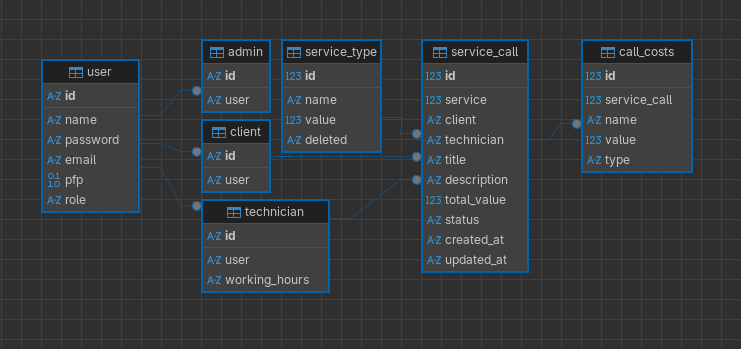
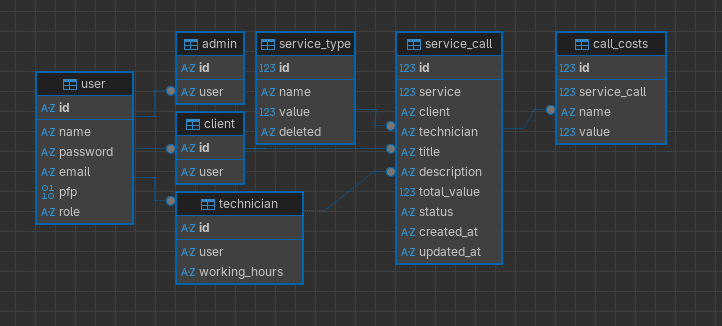
Added untested prototype of the call service

Changed region(s): [[0.0305, 0.092, 0.9446, 0.8896], [0.0305, 0.6442, 0.1828, 0.7055], [0.4875, 0.5521, 0.518, 0.5828]]

diff --git a/helpdesk-backend/src/modules/service_call/service_call.service.ts b/helpdesk-backend/src/modules/service_call/service_call.service.ts
@@ -1,4 +1,135 @@
-import { Injectable } from '@nestjs/common';
+import {
+  BadRequestException,
+  Injectable,
+  InternalServerErrorException,
+  NotFoundException,
+} from '@nestjs/common';
+import { ServiceCallDAO } from 'src/database/dao/service_call.dao';
+import { ServiceCallDto } from './dto/CallDto';
+import { ServiceTypeDAO } from 'src/database/dao/service_type.dao';
+import { CallCostsDAO } from 'src/database/dao/call_costs.dao';
+import { ServiceCall } from 'src/database/dao/interface';
+import { UpdateCallDto } from './dto/CallUpdateDto';
+import { CallCostDto } from './dto/CallCostDto';
 
 @Injectable()
-export class ServiceCallService {}
+export class ServiceCallService {
+  constructor(
+    private readonly serviceCallDAO: ServiceCallDAO,
+    private readonly serviceTypeDAO: ServiceTypeDAO,
+    private readonly callCostsDAO: CallCostsDAO,
+  ) {}
+
+  private async checkIfServiceCallExists(id: number): Promise<boolean> {
+    const result = await this.serviceCallDAO.getServiceCall(id);
+    if (result.length == 1) {
+      return true;
+    }
+    return false;
+  }
+
+  private async updateCallTotalValue(
+    id: number,
+    value: number,
+  ): Promise<boolean> {
+    const call = await this.serviceCallDAO.getServiceCall(id);
+    if (call.length != 1) {
+      throw new NotFoundException(`No call found with id: ${id}`);
+    }
+    call[0].total_value = call[0].total_value + value;
+    await this.serviceCallDAO.updateServiceCall(call[0]);
+    return true;
+  }
+
+  public async addServiceCall(data: ServiceCallDto): Promise<boolean> {
+    const callServiceType = await this.serviceTypeDAO.getServiceType(
+      data.service,
+    );
+    if (callServiceType.length != 1 || !data.client) {
+      throw new InternalServerErrorException(`Calls service got invalid data.`);
+    }
+    const call: ServiceCall = {
+      service: data.service,
+      total_value: callServiceType[0].value,
+      client: data.client,
+      technician: data.technician,
+      title: data.title,
+      description: data.description,
+    };
+    await this.serviceCallDAO.addServiceCall(call);
+    return true;
+  }
+
+  public async getAllServiceCalls(): Promise<ServiceCall[]> {
+    return await this.serviceCallDAO.getAllServiceCalls();
+  }
+
+  public async getServiceCallsByRoleId(id: string): Promise<ServiceCall[]> {
+    return await this.serviceCallDAO.getServiceCallsByRoleId(id);
+  }
+
+  public async getServiceCall(id: number): Promise<ServiceCall> {
+    const result = await this.serviceCallDAO.getServiceCall(id);
+    if (result.length != 1) {
+      throw new InternalServerErrorException(`Calls service got invalid data.`);
+    }
+    // Populates ServiceCall.additional_costs using the call id.
+    result[0].additional_costs =
+      await this.callCostsDAO.getCallCostsByCallId(id);
+    // Replaces the service type id with the actual object inside the call.
+    const service = await this.serviceTypeDAO.getServiceType(result[0].service);
+    result[0].service = service[0];
+    return result[0];
+  }
+
+  public async updateServiceCall(data: UpdateCallDto): Promise<boolean> {
+    if (!data.id) {
+      throw new InternalServerErrorException(`Calls service got invalid data.`);
+    }
+    const getCall = await this.serviceCallDAO.getServiceCall(data.id);
+    const call = {
+      ...getCall[0],
+      title: data.title ?? getCall[0].title,
+      description: data.description ?? getCall[0].description,
+      status: data.status ?? getCall[0].status,
+    };
+    await this.serviceCallDAO.updateServiceCall(call);
+    return true;
+  }
+
+  public async deleteServiceCall(id: number): Promise<boolean> {
+    const exists = await this.checkIfServiceCallExists(id);
+    if (!exists) {
+      throw new NotFoundException(`No call found with id: ${id}`);
+    }
+    await this.serviceCallDAO.deleteServiceCall(id);
+    return true;
+  }
+
+  public async addCallCosts(data: CallCostDto): Promise<boolean> {
+    const exists = await this.checkIfServiceCallExists(data.service_call);
+    if (!exists) {
+      throw new BadRequestException(
+        `No call found with id: ${data.service_call}`,
+      );
+    }
+    await this.callCostsDAO.addCallCosts(data);
+    await this.updateCallTotalValue(data.service_call, data.value);
+    return true;
+  }
+
+  public async deleteCallCosts(id: number): Promise<boolean> {
+    const callCost = await this.callCostsDAO.getCallCostById(id);
+    if (callCost.length != 1 || !callCost[0].service_call) {
+      throw new InternalServerErrorException(
+        `Failed to delete call cost, service received invalid data.`,
+      );
+    }
+    const costResult = await this.callCostsDAO.deleteCallCosts(id);
+    const callResult = await this.updateCallTotalValue(
+      callCost[0].service_call,
+      callCost[0].value * -1,
+    );
+    return costResult && callResult;
+  }
+}

diff --git a/helpdesk-backend/src/database/dao/call_costs.dao.ts b/helpdesk-backend/src/database/dao/call_costs.dao.ts
@@ -52,6 +52,23 @@ export class CallCostsDAO {
     }
   }
 
+  public async getCallCostById(id: number): Promise<CallCosts[]> {
+    try {
+      const sql = `
+          SELECT
+            value
+          FROM
+            call_costs
+          WHERE
+            id = ?
+        `;
+      return await this.dbConnection.query(sql, [id]);
+    } catch (err) {
+      this.logger.error(`Failed to get call cost with id '${id}': ${err}`);
+      return [];
+    }
+  }
+
   public async deleteCallCosts(id: number): Promise<boolean> {
     try {
       const sql = `

diff --git a/helpdesk-backend/src/database/dao/service_call.dao.ts b/helpdesk-backend/src/database/dao/service_call.dao.ts
@@ -52,7 +52,7 @@ export class ServiceCallDAO {
     }
   }
 
-  public async getServiceCallsByRoleId(id: number): Promise<ServiceCall[]> {
+  public async getServiceCallsByRoleId(id: string): Promise<ServiceCall[]> {
     // Clients and technicians are assigned to an service call using their role id, this function uses that to find their related calls.
     try {
       const sql = `

diff --git a/helpdesk-backend/src/modules/auth/auth.service.ts b/helpdesk-backend/src/modules/auth/auth.service.ts
@@ -8,7 +8,7 @@ import {
   ForbiddenException,
 } from '@nestjs/common';
 import { UserDAO } from 'src/database/dao/user.dao';
-import { LoginDto as LoginDto } from './dto/LoginDto';
+import { LoginDto } from './dto/LoginDto';
 import { User } from 'src/database/dao/interface';
 import argon2 from 'argon2';
 import { JwtService, JwtSignOptions } from '@nestjs/jwt';

diff --git a/helpdesk-backend/src/database/dao/interface/service_call.interface.ts b/helpdesk-backend/src/database/dao/interface/service_call.interface.ts
@@ -8,8 +8,8 @@ export interface ServiceCall {
   technician: string;
   title: string;
   description?: string;
-  total_value: string;
-  aditional_costs?: CallCosts[];
+  total_value: number;
+  additional_costs?: CallCosts[];
   status?: 'open' | 'in_progress' | 'closed';
   created_at?: string;
   updated_at?: string;

diff --git a/helpdesk-backend/src/modules/service_call/dto/AddCallDto.ts b/helpdesk-backend/src/modules/service_call/dto/AddCallDto.ts
@@ -1,0 +1,7 @@
+export class ServiceCallDto {
+  service: number;
+  client?: string; // Client does NOT need to send its id, the controller gets it from req.user.role_id
+  technician: string;
+  title: string;
+  description: string;
+}

diff --git a/helpdesk-backend/src/modules/service_call/dto/UpdateCall.ts b/helpdesk-backend/src/modules/service_call/dto/UpdateCall.ts
@@ -1,0 +1,6 @@
+export class UpdateCallDto {
+  title?: string;
+  description?: string;
+  status?: 'open' | 'in_progress' | 'closed';
+  id?: number;
+}

diff --git a/helpdesk-backend/src/modules/service_call/dto/CallCostDto.ts b/helpdesk-backend/src/modules/service_call/dto/CallCostDto.ts
@@ -1,0 +1,5 @@
+export class CallCostDto {
+  name: string;
+  value: number;
+  service_call: number;
+}
